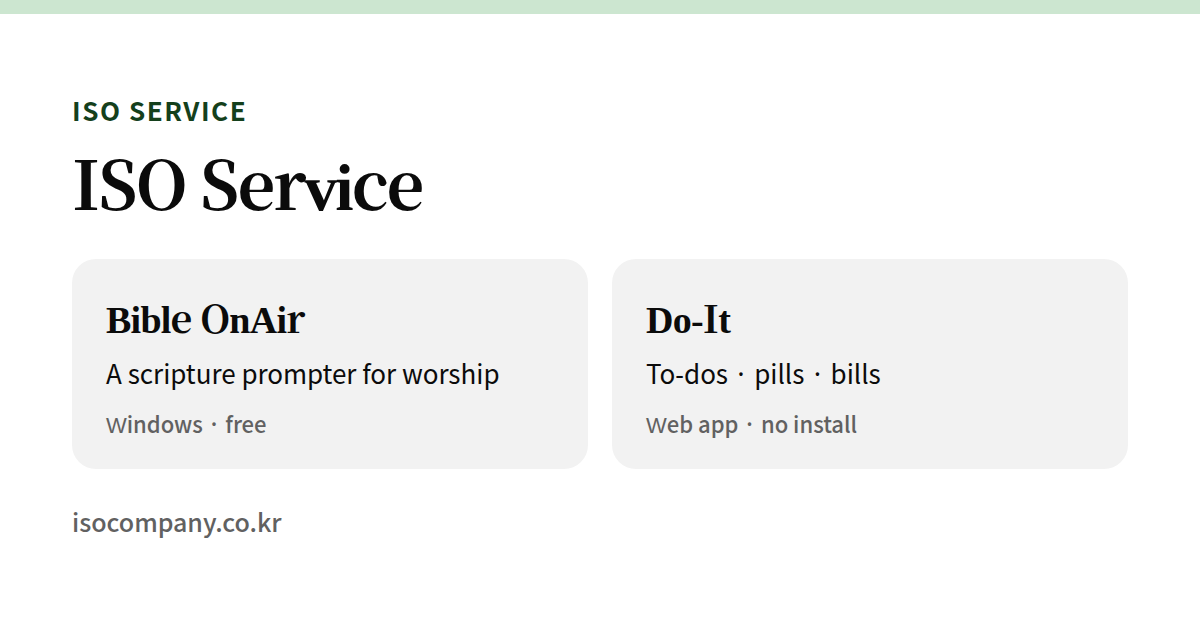
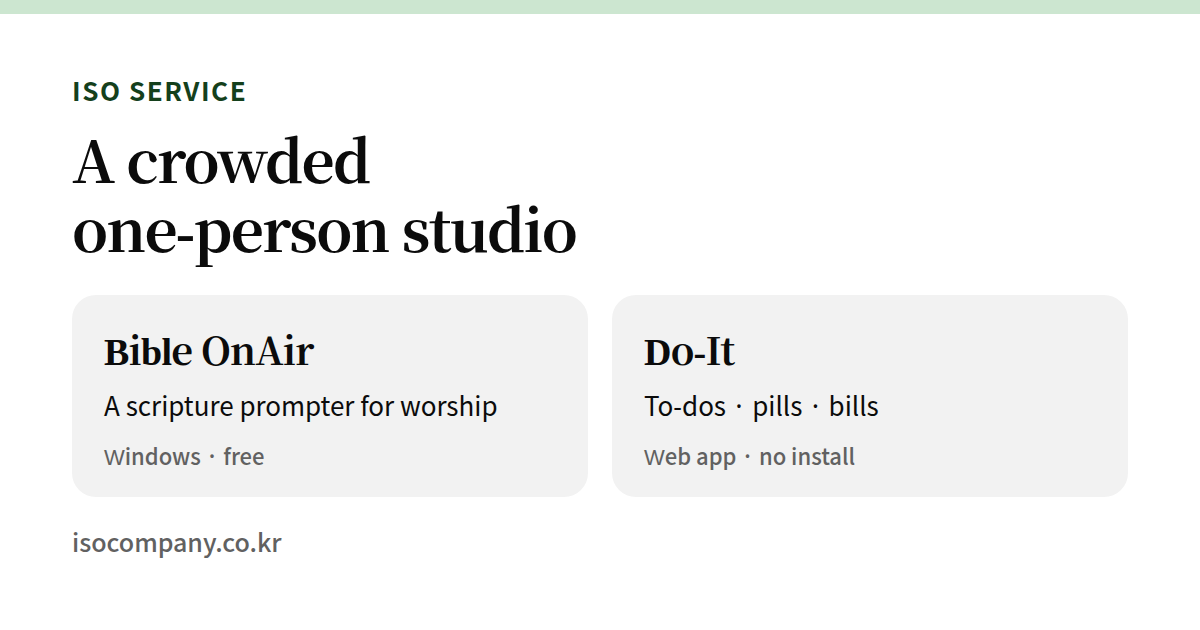
Docs: 첫 화면 문구와 공유 카드를 새 제목에 맞춤
홈 제목을 "북적이는 1인 스튜디오" 로 바꾼 것에 맞춰, 첫 화면의 큰 제목과
설명 줄, 그리고 링크 공유 카드의 큰 글씨를 같은 문구로 통일합니다.

설명 줄에서 '이소컴퍼니' 표기를 뺐습니다. 제목은 '이소서비스', 로고는
'ISO Service', 본문은 '이소컴퍼니' 로 세 갈래였습니다.

카드는 제목이 두 줄이 되면서 맨 아래 주소 줄이 밀려, 글자 크기와 여백을
다시 맞췄습니다.

Claude-Session: https://claude.ai/code/session_019EnYkUvV32QaETB4UPKn2y

diff --git a/docs/index.html b/docs/index.html
@@ -10,6 +10,6 @@
 		}
 	})();
 </script><style>.page-section[data-astro-cid-txyaz5mn]{margin:var(--section-margin) auto;scroll-margin-top:5.5rem}.page-section__body--narrow[data-astro-cid-txyaz5mn]{max-width:var(--container-max-width-narrow);margin-inline:auto}.page-section__body--surface[data-astro-cid-txyaz5mn]{background-color:var(--theme-surface-1);color:var(--theme-on-surface-1);border-radius:var(--theme-shape-radius);padding:clamp(2rem,4vw,3.5rem)}.page-section__title[data-astro-cid-txyaz5mn]{margin-bottom:.75rem}.page-section__lede[data-astro-cid-txyaz5mn]{max-width:60ch;margin-bottom:2rem}.page-section__title[data-astro-cid-txyaz5mn]+:not(.page-section__lede){margin-top:2rem}.badge[data-astro-cid-y2mfgyov]{font-size:var(--font-size-sm);white-space:nowrap;border-radius:3rem;align-items:center;padding:.15rem .7rem;font-weight:700;line-height:1.6;display:inline-flex}.badge--beta[data-astro-cid-y2mfgyov]{background-color:var(--theme-badge-soon-bg);color:var(--theme-badge-soon-on)}.badge--dev[data-astro-cid-y2mfgyov]{background-color:var(--theme-badge-dev-bg);color:var(--theme-badge-dev-on)}.badge--live[data-astro-cid-y2mfgyov]{background-color:var(--theme-badge-live-bg);color:var(--theme-badge-live-on)}
-</style><link rel="stylesheet" href="/_astro/Page.D-KGxC7z.css"><link rel="stylesheet" href="/_astro/HomeView.bL7oW88s.css"></head><body><a class="skip-link" href="#content" data-astro-cid-qydmhg6g>본문으로 건너뛰기</a><header id="siteHeader" data-astro-cid-x7j63lzb><script type="module">var e=document.documentElement;function t(){let t=e.getAttribute(`data-theme`);return t===`dark`||t===`light`?t:window.matchMedia(`(prefers-color-scheme: dark)`).matches?`dark`:`light`}function n(t){e.setAttribute(`data-theme`,t);try{localStorage.setItem(`iso-theme`,t)}catch{}document.querySelectorAll(`[data-theme-toggle]`).forEach(e=>e.setAttribute(`aria-pressed`,String(t===`dark`)))}document.querySelectorAll(`[data-theme-toggle]`).forEach(e=>{e.setAttribute(`aria-pressed`,String(t()===`dark`)),e.addEventListener(`click`,()=>{n(t()===`dark`?`light`:`dark`)})});</script><div class="content__container  header__container" data-astro-cid-adwuno2d="true"><div class="header__brand" data-astro-cid-x7j63lzb><button id="menuButton" type="button" aria-expanded="false" aria-controls="siteNav" aria-label="메뉴 열기" data-label-open="메뉴 열기" data-label-close="메뉴 닫기" data-astro-cid-x7j63lzb><svg class="menu-icon menu-icon--ham" viewBox="0 0 24 24" fill="none" stroke="currentColor" stroke-width="2" stroke-linecap="round" aria-hidden="true" focusable="false" data-astro-cid-x7j63lzb><path d="M4 7h16M4 12h16M4 17h16" data-astro-cid-x7j63lzb></path></svg><svg class="menu-icon menu-icon--close" viewBox="0 0 24 24" fill="none" stroke="currentColor" stroke-width="2" stroke-linecap="round" aria-hidden="true" focusable="false" hidden data-astro-cid-x7j63lzb><path d="M6 6l12 12M18 6L6 18" data-astro-cid-x7j63lzb></path></svg></button><a class="header__logo-link" href="/" data-astro-cid-x7j63lzb><span class="logo" data-astro-cid-f7espo7c><svg class="logo__mark" viewBox="0 0 32 32" fill="none" aria-hidden="true" focusable="false" data-astro-cid-f7espo7c><rect x="1.25" y="1.25" width="29.5" height="29.5" rx="9" stroke="currentColor" stroke-width="2.5" data-astro-cid-f7espo7c></rect><circle cx="16" cy="16" r="6.25" fill="currentColor" data-astro-cid-f7espo7c></circle></svg><span class="logo__text" data-astro-cid-f7espo7c>ISO Service</span></span></a></div><div class="header__nav" id="siteNav" data-astro-cid-x7j63lzb><nav aria-label="nav.services" data-astro-cid-x7j63lzb><ul data-astro-cid-x7j63lzb><li data-astro-cid-x7j63lzb><a href="/" aria-current="page" data-astro-cid-x7j63lzb>홈</a></li><li data-astro-cid-x7j63lzb><a href="/bible-onair" data-astro-cid-x7j63lzb>Bible OnAir</a></li><li data-astro-cid-x7j63lzb><a href="/do-it" data-astro-cid-x7j63lzb>Do-It</a></li></ul></nav><div class="header__nav-actions" data-astro-cid-x7j63lzb><nav class="lang-toggle" aria-label="언어 전환" data-astro-cid-zh35qibh><a class="lang-toggle__link is-active" href="/" hreflang="ko" lang="ko" aria-current="true" data-astro-cid-zh35qibh>KO</a><a class="lang-toggle__link" href="/en" hreflang="en" lang="en" data-astro-cid-zh35qibh>EN</a></nav><a href="#contact" data-astro-cid-x7j63lzb="true" data-astro-cid-nc3ue4xl="true" class="btn btn--outlined header__contact-btn">문의</a></div></div><div class="header__actions" data-astro-cid-x7j63lzb><div class="header__actions-desktop" data-astro-cid-x7j63lzb><nav class="lang-toggle" aria-label="언어 전환" data-astro-cid-zh35qibh><a class="lang-toggle__link is-active" href="/" hreflang="ko" lang="ko" aria-current="true" data-astro-cid-zh35qibh>KO</a><a class="lang-toggle__link" href="/en" hreflang="en" lang="en" data-astro-cid-zh35qibh>EN</a></nav><a href="#contact" data-astro-cid-x7j63lzb="true" data-astro-cid-nc3ue4xl="true" class="btn btn--outlined">문의</a></div><button type="button" class="theme-toggle" data-theme-toggle title="밝은 화면과 어두운 화면 전환" aria-label="밝은 화면과 어두운 화면 전환" data-astro-cid-uhcdaaf3><svg class="theme-toggle__icon theme-toggle__icon--sun" viewBox="0 0 24 24" fill="none" stroke="currentColor" stroke-width="2" stroke-linecap="round" aria-hidden="true" focusable="false" data-astro-cid-uhcdaaf3><circle cx="12" cy="12" r="4.25" data-astro-cid-uhcdaaf3></circle><path d="M12 2.5v2M12 19.5v2M2.5 12h2M19.5 12h2M5.2 5.2l1.4 1.4M17.4 17.4l1.4 1.4M18.8 5.2l-1.4 1.4M6.6 17.4l-1.4 1.4" data-astro-cid-uhcdaaf3></path></svg><svg class="theme-toggle__icon theme-toggle__icon--moon" viewBox="0 0 24 24" fill="none" stroke="currentColor" stroke-width="2" stroke-linecap="round" stroke-linejoin="round" aria-hidden="true" focusable="false" data-astro-cid-uhcdaaf3><path d="M20 14.2A8.2 8.2 0 0 1 9.8 4a8.5 8.5 0 1 0 10.2 10.2z" data-astro-cid-uhcdaaf3></path></svg></button></div></div></header><script type="module">var e=document.getElementById(`siteHeader`),t=document.getElementById(`menuButton`),n=e?.querySelector(`.menu-icon--ham`),r=e?.querySelector(`.menu-icon--close`);function i(i){e.toggleAttribute(`mobile-menu-open`,i),n?.toggleAttribute(`hidden`,i),r?.toggleAttribute(`hidden`,!i),t.setAttribute(`aria-expanded`,String(i)),t.setAttribute(`aria-label`,(i?t.dataset.labelClose:t.dataset.labelOpen)??``),document.body.style.overflow=i?`hidden`:``}t?.addEventListener(`click`,()=>{i(!e.hasAttribute(`mobile-menu-open`))}),document.querySelectorAll(`#siteNav a`).forEach(e=>e.addEventListener(`click`,()=>i(!1)));</script><main id="content"><div class="content__container  " data-astro-cid-adwuno2d="true"><section class="hero" data-astro-cid-63llj4z6><h1 class="hero__title" data-astro-cid-63llj4z6>ISO Service</h1><p class="hero__lede" data-astro-cid-63llj4z6>이소컴퍼니의 서비스입니다.
+</style><link rel="stylesheet" href="/_astro/Page.D-KGxC7z.css"><link rel="stylesheet" href="/_astro/HomeView.bL7oW88s.css"></head><body><a class="skip-link" href="#content" data-astro-cid-qydmhg6g>본문으로 건너뛰기</a><header id="siteHeader" data-astro-cid-x7j63lzb><script type="module">var e=document.documentElement;function t(){let t=e.getAttribute(`data-theme`);return t===`dark`||t===`light`?t:window.matchMedia(`(prefers-color-scheme: dark)`).matches?`dark`:`light`}function n(t){e.setAttribute(`data-theme`,t);try{localStorage.setItem(`iso-theme`,t)}catch{}document.querySelectorAll(`[data-theme-toggle]`).forEach(e=>e.setAttribute(`aria-pressed`,String(t===`dark`)))}document.querySelectorAll(`[data-theme-toggle]`).forEach(e=>{e.setAttribute(`aria-pressed`,String(t()===`dark`)),e.addEventListener(`click`,()=>{n(t()===`dark`?`light`:`dark`)})});</script><div class="content__container  header__container" data-astro-cid-adwuno2d="true"><div class="header__brand" data-astro-cid-x7j63lzb><button id="menuButton" type="button" aria-expanded="false" aria-controls="siteNav" aria-label="메뉴 열기" data-label-open="메뉴 열기" data-label-close="메뉴 닫기" data-astro-cid-x7j63lzb><svg class="menu-icon menu-icon--ham" viewBox="0 0 24 24" fill="none" stroke="currentColor" stroke-width="2" stroke-linecap="round" aria-hidden="true" focusable="false" data-astro-cid-x7j63lzb><path d="M4 7h16M4 12h16M4 17h16" data-astro-cid-x7j63lzb></path></svg><svg class="menu-icon menu-icon--close" viewBox="0 0 24 24" fill="none" stroke="currentColor" stroke-width="2" stroke-linecap="round" aria-hidden="true" focusable="false" hidden data-astro-cid-x7j63lzb><path d="M6 6l12 12M18 6L6 18" data-astro-cid-x7j63lzb></path></svg></button><a class="header__logo-link" href="/" data-astro-cid-x7j63lzb><span class="logo" data-astro-cid-f7espo7c><svg class="logo__mark" viewBox="0 0 32 32" fill="none" aria-hidden="true" focusable="false" data-astro-cid-f7espo7c><rect x="1.25" y="1.25" width="29.5" height="29.5" rx="9" stroke="currentColor" stroke-width="2.5" data-astro-cid-f7espo7c></rect><circle cx="16" cy="16" r="6.25" fill="currentColor" data-astro-cid-f7espo7c></circle></svg><span class="logo__text" data-astro-cid-f7espo7c>ISO Service</span></span></a></div><div class="header__nav" id="siteNav" data-astro-cid-x7j63lzb><nav aria-label="nav.services" data-astro-cid-x7j63lzb><ul data-astro-cid-x7j63lzb><li data-astro-cid-x7j63lzb><a href="/" aria-current="page" data-astro-cid-x7j63lzb>홈</a></li><li data-astro-cid-x7j63lzb><a href="/bible-onair" data-astro-cid-x7j63lzb>Bible OnAir</a></li><li data-astro-cid-x7j63lzb><a href="/do-it" data-astro-cid-x7j63lzb>Do-It</a></li></ul></nav><div class="header__nav-actions" data-astro-cid-x7j63lzb><nav class="lang-toggle" aria-label="언어 전환" data-astro-cid-zh35qibh><a class="lang-toggle__link is-active" href="/" hreflang="ko" lang="ko" aria-current="true" data-astro-cid-zh35qibh>KO</a><a class="lang-toggle__link" href="/en" hreflang="en" lang="en" data-astro-cid-zh35qibh>EN</a></nav><a href="#contact" data-astro-cid-x7j63lzb="true" data-astro-cid-nc3ue4xl="true" class="btn btn--outlined header__contact-btn">문의</a></div></div><div class="header__actions" data-astro-cid-x7j63lzb><div class="header__actions-desktop" data-astro-cid-x7j63lzb><nav class="lang-toggle" aria-label="언어 전환" data-astro-cid-zh35qibh><a class="lang-toggle__link is-active" href="/" hreflang="ko" lang="ko" aria-current="true" data-astro-cid-zh35qibh>KO</a><a class="lang-toggle__link" href="/en" hreflang="en" lang="en" data-astro-cid-zh35qibh>EN</a></nav><a href="#contact" data-astro-cid-x7j63lzb="true" data-astro-cid-nc3ue4xl="true" class="btn btn--outlined">문의</a></div><button type="button" class="theme-toggle" data-theme-toggle title="밝은 화면과 어두운 화면 전환" aria-label="밝은 화면과 어두운 화면 전환" data-astro-cid-uhcdaaf3><svg class="theme-toggle__icon theme-toggle__icon--sun" viewBox="0 0 24 24" fill="none" stroke="currentColor" stroke-width="2" stroke-linecap="round" aria-hidden="true" focusable="false" data-astro-cid-uhcdaaf3><circle cx="12" cy="12" r="4.25" data-astro-cid-uhcdaaf3></circle><path d="M12 2.5v2M12 19.5v2M2.5 12h2M19.5 12h2M5.2 5.2l1.4 1.4M17.4 17.4l1.4 1.4M18.8 5.2l-1.4 1.4M6.6 17.4l-1.4 1.4" data-astro-cid-uhcdaaf3></path></svg><svg class="theme-toggle__icon theme-toggle__icon--moon" viewBox="0 0 24 24" fill="none" stroke="currentColor" stroke-width="2" stroke-linecap="round" stroke-linejoin="round" aria-hidden="true" focusable="false" data-astro-cid-uhcdaaf3><path d="M20 14.2A8.2 8.2 0 0 1 9.8 4a8.5 8.5 0 1 0 10.2 10.2z" data-astro-cid-uhcdaaf3></path></svg></button></div></div></header><script type="module">var e=document.getElementById(`siteHeader`),t=document.getElementById(`menuButton`),n=e?.querySelector(`.menu-icon--ham`),r=e?.querySelector(`.menu-icon--close`);function i(i){e.toggleAttribute(`mobile-menu-open`,i),n?.toggleAttribute(`hidden`,i),r?.toggleAttribute(`hidden`,!i),t.setAttribute(`aria-expanded`,String(i)),t.setAttribute(`aria-label`,(i?t.dataset.labelClose:t.dataset.labelOpen)??``),document.body.style.overflow=i?`hidden`:``}t?.addEventListener(`click`,()=>{i(!e.hasAttribute(`mobile-menu-open`))}),document.querySelectorAll(`#siteNav a`).forEach(e=>e.addEventListener(`click`,()=>i(!1)));</script><main id="content"><div class="content__container  " data-astro-cid-adwuno2d="true"><section class="hero" data-astro-cid-63llj4z6><h1 class="hero__title" data-astro-cid-63llj4z6>북적이는 1인 스튜디오</h1><p class="hero__lede" data-astro-cid-63llj4z6>혼자 만드는 프로그램을 모아둔 곳입니다.
 아래에서 확인해보세요.</p></section></div><div class="content__container  " data-astro-cid-adwuno2d="true"><section class="services" id="services" aria-label="ISO Service" data-astro-cid-myynegie><div class="services__grid" data-astro-cid-myynegie><article class="service-card" data-astro-cid-epw4e57a><div class="service-card__head" data-astro-cid-epw4e57a><span class="badge badge--live" data-astro-cid-y2mfgyov>정식 버전</span><span class="service-card__version" data-astro-cid-epw4e57a>v1.1.1</span></div><h3 class="service-card__title" data-astro-cid-epw4e57a><a href="/bible-onair" data-astro-cid-epw4e57a>Bible OnAir<span class="service-card__arrow" aria-hidden="true" data-astro-cid-epw4e57a><svg viewBox="0 0 24 24" fill="none" stroke="currentColor" stroke-width="2" stroke-linecap="round" stroke-linejoin="round" focusable="false" data-astro-cid-epw4e57a><path d="M6 18 18 6M9 6h9v9" data-astro-cid-epw4e57a></path></svg></span></a></h3><p class="service-card__subname" data-astro-cid-epw4e57a>바이블온에어</p><p class="service-card__tagline" data-astro-cid-epw4e57a>찾는 순간 바로 화면으로, 예배의 몰입을 돕는 가장 빠른 성경 프롬프터</p><p class="service-card__summary" data-astro-cid-epw4e57a>제어 화면과 송출 화면의 이원화로, 성경 구절을 실시간으로 안전하고 빠르게 제공할 수 있습니다.</p><div class="service-card__actions" data-astro-cid-epw4e57a><a href="/bible-onair" data-astro-cid-epw4e57a="true" data-astro-cid-nc3ue4xl="true" class="btn btn--outlined">자세히 보기</a><a href="https://github.com/dode777/Bible-OnAir-Releases/releases/download/v1.1.1/Bible-OnAir-Setup-1.1.1.exe" target="_blank" rel="noopener noreferrer" data-astro-cid-nc3ue4xl="true" class="btn">다운로드<svg viewBox="0 0 24 24" fill="none" stroke="currentColor" stroke-width="2" stroke-linecap="round" stroke-linejoin="round" aria-hidden="true" focusable="false"><path d="M12 3.5v11"></path><path d="M7.5 10.5 12 15l4.5-4.5"></path><path d="M4.5 18.5h15"></path></svg></a></div></article><article class="service-card" data-astro-cid-epw4e57a><div class="service-card__head" data-astro-cid-epw4e57a><span class="badge badge--live" data-astro-cid-y2mfgyov>정식 버전</span><span class="service-card__version" data-astro-cid-epw4e57a>v0.1.5</span></div><h3 class="service-card__title" data-astro-cid-epw4e57a><a href="/do-it" data-astro-cid-epw4e57a>Do-It<span class="service-card__arrow" aria-hidden="true" data-astro-cid-epw4e57a><svg viewBox="0 0 24 24" fill="none" stroke="currentColor" stroke-width="2" stroke-linecap="round" stroke-linejoin="round" focusable="false" data-astro-cid-epw4e57a><path d="M6 18 18 6M9 6h9v9" data-astro-cid-epw4e57a></path></svg></span></a></h3><p class="service-card__subname" data-astro-cid-epw4e57a>두잇</p><p class="service-card__tagline" data-astro-cid-epw4e57a>꾹 누르면 끝. 약, 루틴, 고정비를 한 장씩 넘기며 챙기는 앱</p><p class="service-card__summary" data-astro-cid-epw4e57a>설치 없이 휴대폰 브라우저에서 열고, 홈 화면에 추가하면 앱처럼 쓸 수 있습니다.</p><div class="service-card__actions" data-astro-cid-epw4e57a><a href="/do-it" data-astro-cid-epw4e57a="true" data-astro-cid-nc3ue4xl="true" class="btn btn--outlined">자세히 보기</a><a href="https://doit.isocompany.co.kr/" target="_blank" rel="noopener noreferrer" data-astro-cid-nc3ue4xl="true" class="btn">열기<svg viewBox="0 0 24 24" fill="none" stroke="currentColor" stroke-width="2" stroke-linecap="round" stroke-linejoin="round" aria-hidden="true" focusable="false"><rect x="6.5" y="2.5" width="11" height="19" rx="2.5"></rect><path d="M11 18.5h2"></path></svg></a></div></article></div></section></div><section class="page-section" id="contact" data-astro-cid-txyaz5mn><div class="content__container  " data-astro-cid-adwuno2d="true"><div class="page-section__body page-section__body--surface" data-astro-cid-txyaz5mn><h2 class="page-section__title" data-astro-cid-txyaz5mn>문의</h2><div class="contact" data-astro-cid-iitoow3x><p class="contact__lede" data-astro-cid-iitoow3x>사용 중 발생한 문제나 기능 제안을 남겨주세요.
 적어주신 메일 주소로 빠른 시일 내 답변드리겠습니다.</p><form class="contact__form" action="https://formsubmit.co/hello@isocompany.co.kr" method="POST" data-astro-cid-iitoow3x><input type="hidden" name="_subject" value="[ISO Service] 웹사이트 문의" data-astro-cid-iitoow3x><input type="hidden" name="_template" value="table" data-astro-cid-iitoow3x><input type="hidden" name="_captcha" value="false" data-astro-cid-iitoow3x><input type="hidden" name="_next" value="https://isocompany.co.kr/contact/thanks" data-astro-cid-iitoow3x><input type="text" name="_honey" class="visually-hidden" tabindex="-1" autocomplete="off" aria-hidden="true" data-astro-cid-iitoow3x><div class="contact__row" data-astro-cid-iitoow3x><div class="contact__field" data-astro-cid-iitoow3x><label for="contactName" data-astro-cid-iitoow3x>이름<span class="contact__required" data-astro-cid-iitoow3x>필수</span></label><input id="contactName" name="이름" type="text" required autocomplete="name" placeholder="홍길동" data-astro-cid-iitoow3x></div><div class="contact__field" data-astro-cid-iitoow3x><label for="contactEmail" data-astro-cid-iitoow3x>이메일<span class="contact__required" data-astro-cid-iitoow3x>필수</span></label><input id="contactEmail" name="email" type="email" required autocomplete="email" placeholder="name@example.com" data-astro-cid-iitoow3x></div></div><div class="contact__field" data-astro-cid-iitoow3x><label for="contactTopic" data-astro-cid-iitoow3x>문의 유형</label><select id="contactTopic" name="문의 유형" data-astro-cid-iitoow3x><option value="사용 방법" data-astro-cid-iitoow3x>사용 방법</option><option value="오류 신고" data-astro-cid-iitoow3x>오류 신고</option><option value="기능 제안" data-astro-cid-iitoow3x>기능 제안</option><option value="기타" data-astro-cid-iitoow3x>기타</option></select></div><div class="contact__field" data-astro-cid-iitoow3x><label for="contactMessage" data-astro-cid-iitoow3x>문의 내용<span class="contact__required" data-astro-cid-iitoow3x>필수</span></label><textarea id="contactMessage" name="문의 내용" rows="7" required placeholder="문제가 발생한 상황과 증상을 함께 적어주시면 확인이 빠릅니다." data-astro-cid-iitoow3x></textarea></div><label class="contact__consent" data-astro-cid-iitoow3x><input type="checkbox" required data-astro-cid-iitoow3x><span data-astro-cid-iitoow3x>답변을 위해 이름과 이메일을 수집하는 데 동의합니다.</span></label><button data-astro-cid-iitoow3x="true" data-astro-cid-nc3ue4xl="true" class="btn btn--large">보내기</button></form><div class="contact__fallback" data-astro-cid-iitoow3x><p class="contact__fallback-lead" data-astro-cid-iitoow3x>아래 주소로 메일을 보내셔도 됩니다.</p><p class="contact__email" data-astro-cid-iitoow3x><a href="mailto:hello@isocompany.co.kr" data-astro-cid-iitoow3x>hello@isocompany.co.kr</a></p><a href="mailto:hello@isocompany.co.kr" data-astro-cid-iitoow3x="true" data-astro-cid-nc3ue4xl="true" class="btn btn--outlined">메일 앱으로 보내기</a></div></div></div></div></section></main><footer data-astro-cid-vnidhd3p><div class="content__container  " data-astro-cid-adwuno2d="true"><div class="footer__grid" data-astro-cid-vnidhd3p><div class="footer__brand" data-astro-cid-vnidhd3p><span class="logo" data-astro-cid-f7espo7c><svg class="logo__mark" viewBox="0 0 32 32" fill="none" aria-hidden="true" focusable="false" data-astro-cid-f7espo7c><rect x="1.25" y="1.25" width="29.5" height="29.5" rx="9" stroke="currentColor" stroke-width="2.5" data-astro-cid-f7espo7c></rect><circle cx="16" cy="16" r="6.25" fill="currentColor" data-astro-cid-f7espo7c></circle></svg><span class="logo__text" data-astro-cid-f7espo7c>ISO Service</span></span><p class="footer__tagline" data-astro-cid-vnidhd3p>Bible OnAir — 예배용 성경 구절 프롬프터, Do-It — 할 일·복약·고정비 체크 앱. 무료로 쓸 수 있습니다.</p></div><div data-astro-cid-vnidhd3p><p class="footer__heading" data-astro-cid-vnidhd3p>프로그램</p><ul class="footer__list" data-astro-cid-vnidhd3p><li data-astro-cid-vnidhd3p><a href="/bible-onair" data-astro-cid-vnidhd3p>Bible OnAir</a></li><li data-astro-cid-vnidhd3p><a href="/do-it" data-astro-cid-vnidhd3p>Do-It</a></li></ul></div><div data-astro-cid-vnidhd3p><p class="footer__heading" data-astro-cid-vnidhd3p>링크</p><ul class="footer__list" data-astro-cid-vnidhd3p><li data-astro-cid-vnidhd3p><a href="/" data-astro-cid-vnidhd3p>홈</a></li><li data-astro-cid-vnidhd3p><a href="https://github.com/dode777" target="_blank" rel="noopener noreferrer" data-astro-cid-vnidhd3p>GitHub</a></li></ul></div><div data-astro-cid-vnidhd3p><p class="footer__heading" data-astro-cid-vnidhd3p>문의</p><ul class="footer__list" data-astro-cid-vnidhd3p><li data-astro-cid-vnidhd3p><a href="mailto:hello@isocompany.co.kr" data-astro-cid-vnidhd3p>hello@isocompany.co.kr</a></li></ul></div></div><div class="footer__bottom" data-astro-cid-vnidhd3p><p data-astro-cid-vnidhd3p>&copy; 2026 ISO Service</p><p class="footer__credit" data-astro-cid-vnidhd3p><a href="https://github.com/treefarmstudio/odyssey-theme" target="_blank" rel="noopener noreferrer" data-astro-cid-vnidhd3p>Odyssey Theme 기반 · Astro로 제작</a></p></div></div></footer></body></html>

diff --git a/docs/en/index.html b/docs/en/index.html
@@ -10,6 +10,6 @@
 		}
 	})();
 </script><style>.page-section[data-astro-cid-txyaz5mn]{margin:var(--section-margin) auto;scroll-margin-top:5.5rem}.page-section__body--narrow[data-astro-cid-txyaz5mn]{max-width:var(--container-max-width-narrow);margin-inline:auto}.page-section__body--surface[data-astro-cid-txyaz5mn]{background-color:var(--theme-surface-1);color:var(--theme-on-surface-1);border-radius:var(--theme-shape-radius);padding:clamp(2rem,4vw,3.5rem)}.page-section__title[data-astro-cid-txyaz5mn]{margin-bottom:.75rem}.page-section__lede[data-astro-cid-txyaz5mn]{max-width:60ch;margin-bottom:2rem}.page-section__title[data-astro-cid-txyaz5mn]+:not(.page-section__lede){margin-top:2rem}.badge[data-astro-cid-y2mfgyov]{font-size:var(--font-size-sm);white-space:nowrap;border-radius:3rem;align-items:center;padding:.15rem .7rem;font-weight:700;line-height:1.6;display:inline-flex}.badge--beta[data-astro-cid-y2mfgyov]{background-color:var(--theme-badge-soon-bg);color:var(--theme-badge-soon-on)}.badge--dev[data-astro-cid-y2mfgyov]{background-color:var(--theme-badge-dev-bg);color:var(--theme-badge-dev-on)}.badge--live[data-astro-cid-y2mfgyov]{background-color:var(--theme-badge-live-bg);color:var(--theme-badge-live-on)}
-</style><link rel="stylesheet" href="/_astro/Page.D-KGxC7z.css"><link rel="stylesheet" href="/_astro/HomeView.bL7oW88s.css"></head><body><a class="skip-link" href="#content" data-astro-cid-qydmhg6g>Skip to content</a><header id="siteHeader" data-astro-cid-x7j63lzb><script type="module">var e=document.documentElement;function t(){let t=e.getAttribute(`data-theme`);return t===`dark`||t===`light`?t:window.matchMedia(`(prefers-color-scheme: dark)`).matches?`dark`:`light`}function n(t){e.setAttribute(`data-theme`,t);try{localStorage.setItem(`iso-theme`,t)}catch{}document.querySelectorAll(`[data-theme-toggle]`).forEach(e=>e.setAttribute(`aria-pressed`,String(t===`dark`)))}document.querySelectorAll(`[data-theme-toggle]`).forEach(e=>{e.setAttribute(`aria-pressed`,String(t()===`dark`)),e.addEventListener(`click`,()=>{n(t()===`dark`?`light`:`dark`)})});</script><div class="content__container  header__container" data-astro-cid-adwuno2d="true"><div class="header__brand" data-astro-cid-x7j63lzb><button id="menuButton" type="button" aria-expanded="false" aria-controls="siteNav" aria-label="Open main menu" data-label-open="Open main menu" data-label-close="Close main menu" data-astro-cid-x7j63lzb><svg class="menu-icon menu-icon--ham" viewBox="0 0 24 24" fill="none" stroke="currentColor" stroke-width="2" stroke-linecap="round" aria-hidden="true" focusable="false" data-astro-cid-x7j63lzb><path d="M4 7h16M4 12h16M4 17h16" data-astro-cid-x7j63lzb></path></svg><svg class="menu-icon menu-icon--close" viewBox="0 0 24 24" fill="none" stroke="currentColor" stroke-width="2" stroke-linecap="round" aria-hidden="true" focusable="false" hidden data-astro-cid-x7j63lzb><path d="M6 6l12 12M18 6L6 18" data-astro-cid-x7j63lzb></path></svg></button><a class="header__logo-link" href="/en" data-astro-cid-x7j63lzb><span class="logo" data-astro-cid-f7espo7c><svg class="logo__mark" viewBox="0 0 32 32" fill="none" aria-hidden="true" focusable="false" data-astro-cid-f7espo7c><rect x="1.25" y="1.25" width="29.5" height="29.5" rx="9" stroke="currentColor" stroke-width="2.5" data-astro-cid-f7espo7c></rect><circle cx="16" cy="16" r="6.25" fill="currentColor" data-astro-cid-f7espo7c></circle></svg><span class="logo__text" data-astro-cid-f7espo7c>ISO Service</span></span></a></div><div class="header__nav" id="siteNav" data-astro-cid-x7j63lzb><nav aria-label="nav.services" data-astro-cid-x7j63lzb><ul data-astro-cid-x7j63lzb><li data-astro-cid-x7j63lzb><a href="/en" aria-current="page" data-astro-cid-x7j63lzb>Home</a></li><li data-astro-cid-x7j63lzb><a href="/en/bible-onair" data-astro-cid-x7j63lzb>Bible OnAir</a></li><li data-astro-cid-x7j63lzb><a href="/en/do-it" data-astro-cid-x7j63lzb>Do-It</a></li></ul></nav><div class="header__nav-actions" data-astro-cid-x7j63lzb><nav class="lang-toggle" aria-label="Switch language" data-astro-cid-zh35qibh><a class="lang-toggle__link" href="/" hreflang="ko" lang="ko" data-astro-cid-zh35qibh>KO</a><a class="lang-toggle__link is-active" href="/en" hreflang="en" lang="en" aria-current="true" data-astro-cid-zh35qibh>EN</a></nav><a href="#contact" data-astro-cid-x7j63lzb="true" data-astro-cid-nc3ue4xl="true" class="btn btn--outlined header__contact-btn">Contact</a></div></div><div class="header__actions" data-astro-cid-x7j63lzb><div class="header__actions-desktop" data-astro-cid-x7j63lzb><nav class="lang-toggle" aria-label="Switch language" data-astro-cid-zh35qibh><a class="lang-toggle__link" href="/" hreflang="ko" lang="ko" data-astro-cid-zh35qibh>KO</a><a class="lang-toggle__link is-active" href="/en" hreflang="en" lang="en" aria-current="true" data-astro-cid-zh35qibh>EN</a></nav><a href="#contact" data-astro-cid-x7j63lzb="true" data-astro-cid-nc3ue4xl="true" class="btn btn--outlined">Contact</a></div><button type="button" class="theme-toggle" data-theme-toggle title="Toggle light and dark appearance" aria-label="Toggle light and dark appearance" data-astro-cid-uhcdaaf3><svg class="theme-toggle__icon theme-toggle__icon--sun" viewBox="0 0 24 24" fill="none" stroke="currentColor" stroke-width="2" stroke-linecap="round" aria-hidden="true" focusable="false" data-astro-cid-uhcdaaf3><circle cx="12" cy="12" r="4.25" data-astro-cid-uhcdaaf3></circle><path d="M12 2.5v2M12 19.5v2M2.5 12h2M19.5 12h2M5.2 5.2l1.4 1.4M17.4 17.4l1.4 1.4M18.8 5.2l-1.4 1.4M6.6 17.4l-1.4 1.4" data-astro-cid-uhcdaaf3></path></svg><svg class="theme-toggle__icon theme-toggle__icon--moon" viewBox="0 0 24 24" fill="none" stroke="currentColor" stroke-width="2" stroke-linecap="round" stroke-linejoin="round" aria-hidden="true" focusable="false" data-astro-cid-uhcdaaf3><path d="M20 14.2A8.2 8.2 0 0 1 9.8 4a8.5 8.5 0 1 0 10.2 10.2z" data-astro-cid-uhcdaaf3></path></svg></button></div></div></header><script type="module">var e=document.getElementById(`siteHeader`),t=document.getElementById(`menuButton`),n=e?.querySelector(`.menu-icon--ham`),r=e?.querySelector(`.menu-icon--close`);function i(i){e.toggleAttribute(`mobile-menu-open`,i),n?.toggleAttribute(`hidden`,i),r?.toggleAttribute(`hidden`,!i),t.setAttribute(`aria-expanded`,String(i)),t.setAttribute(`aria-label`,(i?t.dataset.labelClose:t.dataset.labelOpen)??``),document.body.style.overflow=i?`hidden`:``}t?.addEventListener(`click`,()=>{i(!e.hasAttribute(`mobile-menu-open`))}),document.querySelectorAll(`#siteNav a`).forEach(e=>e.addEventListener(`click`,()=>i(!1)));</script><main id="content"><div class="content__container  " data-astro-cid-adwuno2d="true"><section class="hero" data-astro-cid-63llj4z6><h1 class="hero__title" data-astro-cid-63llj4z6>ISO Service</h1><p class="hero__lede" data-astro-cid-63llj4z6>Services by ISO Company.
+</style><link rel="stylesheet" href="/_astro/Page.D-KGxC7z.css"><link rel="stylesheet" href="/_astro/HomeView.bL7oW88s.css"></head><body><a class="skip-link" href="#content" data-astro-cid-qydmhg6g>Skip to content</a><header id="siteHeader" data-astro-cid-x7j63lzb><script type="module">var e=document.documentElement;function t(){let t=e.getAttribute(`data-theme`);return t===`dark`||t===`light`?t:window.matchMedia(`(prefers-color-scheme: dark)`).matches?`dark`:`light`}function n(t){e.setAttribute(`data-theme`,t);try{localStorage.setItem(`iso-theme`,t)}catch{}document.querySelectorAll(`[data-theme-toggle]`).forEach(e=>e.setAttribute(`aria-pressed`,String(t===`dark`)))}document.querySelectorAll(`[data-theme-toggle]`).forEach(e=>{e.setAttribute(`aria-pressed`,String(t()===`dark`)),e.addEventListener(`click`,()=>{n(t()===`dark`?`light`:`dark`)})});</script><div class="content__container  header__container" data-astro-cid-adwuno2d="true"><div class="header__brand" data-astro-cid-x7j63lzb><button id="menuButton" type="button" aria-expanded="false" aria-controls="siteNav" aria-label="Open main menu" data-label-open="Open main menu" data-label-close="Close main menu" data-astro-cid-x7j63lzb><svg class="menu-icon menu-icon--ham" viewBox="0 0 24 24" fill="none" stroke="currentColor" stroke-width="2" stroke-linecap="round" aria-hidden="true" focusable="false" data-astro-cid-x7j63lzb><path d="M4 7h16M4 12h16M4 17h16" data-astro-cid-x7j63lzb></path></svg><svg class="menu-icon menu-icon--close" viewBox="0 0 24 24" fill="none" stroke="currentColor" stroke-width="2" stroke-linecap="round" aria-hidden="true" focusable="false" hidden data-astro-cid-x7j63lzb><path d="M6 6l12 12M18 6L6 18" data-astro-cid-x7j63lzb></path></svg></button><a class="header__logo-link" href="/en" data-astro-cid-x7j63lzb><span class="logo" data-astro-cid-f7espo7c><svg class="logo__mark" viewBox="0 0 32 32" fill="none" aria-hidden="true" focusable="false" data-astro-cid-f7espo7c><rect x="1.25" y="1.25" width="29.5" height="29.5" rx="9" stroke="currentColor" stroke-width="2.5" data-astro-cid-f7espo7c></rect><circle cx="16" cy="16" r="6.25" fill="currentColor" data-astro-cid-f7espo7c></circle></svg><span class="logo__text" data-astro-cid-f7espo7c>ISO Service</span></span></a></div><div class="header__nav" id="siteNav" data-astro-cid-x7j63lzb><nav aria-label="nav.services" data-astro-cid-x7j63lzb><ul data-astro-cid-x7j63lzb><li data-astro-cid-x7j63lzb><a href="/en" aria-current="page" data-astro-cid-x7j63lzb>Home</a></li><li data-astro-cid-x7j63lzb><a href="/en/bible-onair" data-astro-cid-x7j63lzb>Bible OnAir</a></li><li data-astro-cid-x7j63lzb><a href="/en/do-it" data-astro-cid-x7j63lzb>Do-It</a></li></ul></nav><div class="header__nav-actions" data-astro-cid-x7j63lzb><nav class="lang-toggle" aria-label="Switch language" data-astro-cid-zh35qibh><a class="lang-toggle__link" href="/" hreflang="ko" lang="ko" data-astro-cid-zh35qibh>KO</a><a class="lang-toggle__link is-active" href="/en" hreflang="en" lang="en" aria-current="true" data-astro-cid-zh35qibh>EN</a></nav><a href="#contact" data-astro-cid-x7j63lzb="true" data-astro-cid-nc3ue4xl="true" class="btn btn--outlined header__contact-btn">Contact</a></div></div><div class="header__actions" data-astro-cid-x7j63lzb><div class="header__actions-desktop" data-astro-cid-x7j63lzb><nav class="lang-toggle" aria-label="Switch language" data-astro-cid-zh35qibh><a class="lang-toggle__link" href="/" hreflang="ko" lang="ko" data-astro-cid-zh35qibh>KO</a><a class="lang-toggle__link is-active" href="/en" hreflang="en" lang="en" aria-current="true" data-astro-cid-zh35qibh>EN</a></nav><a href="#contact" data-astro-cid-x7j63lzb="true" data-astro-cid-nc3ue4xl="true" class="btn btn--outlined">Contact</a></div><button type="button" class="theme-toggle" data-theme-toggle title="Toggle light and dark appearance" aria-label="Toggle light and dark appearance" data-astro-cid-uhcdaaf3><svg class="theme-toggle__icon theme-toggle__icon--sun" viewBox="0 0 24 24" fill="none" stroke="currentColor" stroke-width="2" stroke-linecap="round" aria-hidden="true" focusable="false" data-astro-cid-uhcdaaf3><circle cx="12" cy="12" r="4.25" data-astro-cid-uhcdaaf3></circle><path d="M12 2.5v2M12 19.5v2M2.5 12h2M19.5 12h2M5.2 5.2l1.4 1.4M17.4 17.4l1.4 1.4M18.8 5.2l-1.4 1.4M6.6 17.4l-1.4 1.4" data-astro-cid-uhcdaaf3></path></svg><svg class="theme-toggle__icon theme-toggle__icon--moon" viewBox="0 0 24 24" fill="none" stroke="currentColor" stroke-width="2" stroke-linecap="round" stroke-linejoin="round" aria-hidden="true" focusable="false" data-astro-cid-uhcdaaf3><path d="M20 14.2A8.2 8.2 0 0 1 9.8 4a8.5 8.5 0 1 0 10.2 10.2z" data-astro-cid-uhcdaaf3></path></svg></button></div></div></header><script type="module">var e=document.getElementById(`siteHeader`),t=document.getElementById(`menuButton`),n=e?.querySelector(`.menu-icon--ham`),r=e?.querySelector(`.menu-icon--close`);function i(i){e.toggleAttribute(`mobile-menu-open`,i),n?.toggleAttribute(`hidden`,i),r?.toggleAttribute(`hidden`,!i),t.setAttribute(`aria-expanded`,String(i)),t.setAttribute(`aria-label`,(i?t.dataset.labelClose:t.dataset.labelOpen)??``),document.body.style.overflow=i?`hidden`:``}t?.addEventListener(`click`,()=>{i(!e.hasAttribute(`mobile-menu-open`))}),document.querySelectorAll(`#siteNav a`).forEach(e=>e.addEventListener(`click`,()=>i(!1)));</script><main id="content"><div class="content__container  " data-astro-cid-adwuno2d="true"><section class="hero" data-astro-cid-63llj4z6><h1 class="hero__title" data-astro-cid-63llj4z6>A crowded one-person studio</h1><p class="hero__lede" data-astro-cid-63llj4z6>Everything here is made by one person.
 Take a look below.</p></section></div><div class="content__container  " data-astro-cid-adwuno2d="true"><section class="services" id="services" aria-label="ISO Service" data-astro-cid-myynegie><div class="services__grid" data-astro-cid-myynegie><article class="service-card" data-astro-cid-epw4e57a><div class="service-card__head" data-astro-cid-epw4e57a><span class="badge badge--live" data-astro-cid-y2mfgyov>Stable release</span><span class="service-card__version" data-astro-cid-epw4e57a>v1.1.1</span></div><h3 class="service-card__title" data-astro-cid-epw4e57a><a href="/en/bible-onair" data-astro-cid-epw4e57a>Bible OnAir<span class="service-card__arrow" aria-hidden="true" data-astro-cid-epw4e57a><svg viewBox="0 0 24 24" fill="none" stroke="currentColor" stroke-width="2" stroke-linecap="round" stroke-linejoin="round" focusable="false" data-astro-cid-epw4e57a><path d="M6 18 18 6M9 6h9v9" data-astro-cid-epw4e57a></path></svg></span></a></h3><p class="service-card__tagline" data-astro-cid-epw4e57a>Found and on screen in an instant — the fastest scripture prompter for worship</p><p class="service-card__summary" data-astro-cid-epw4e57a>A separate control window and output screen put verses up quickly and safely, live.</p><div class="service-card__actions" data-astro-cid-epw4e57a><a href="/en/bible-onair" data-astro-cid-epw4e57a="true" data-astro-cid-nc3ue4xl="true" class="btn btn--outlined">Read more</a><a href="https://github.com/dode777/Bible-OnAir-Releases/releases/download/v1.1.1/Bible-OnAir-Setup-1.1.1.exe" target="_blank" rel="noopener noreferrer" data-astro-cid-nc3ue4xl="true" class="btn">Download<svg viewBox="0 0 24 24" fill="none" stroke="currentColor" stroke-width="2" stroke-linecap="round" stroke-linejoin="round" aria-hidden="true" focusable="false"><path d="M12 3.5v11"></path><path d="M7.5 10.5 12 15l4.5-4.5"></path><path d="M4.5 18.5h15"></path></svg></a></div></article><article class="service-card" data-astro-cid-epw4e57a><div class="service-card__head" data-astro-cid-epw4e57a><span class="badge badge--live" data-astro-cid-y2mfgyov>Stable release</span><span class="service-card__version" data-astro-cid-epw4e57a>v0.1.5</span></div><h3 class="service-card__title" data-astro-cid-epw4e57a><a href="/en/do-it" data-astro-cid-epw4e57a>Do-It<span class="service-card__arrow" aria-hidden="true" data-astro-cid-epw4e57a><svg viewBox="0 0 24 24" fill="none" stroke="currentColor" stroke-width="2" stroke-linecap="round" stroke-linejoin="round" focusable="false" data-astro-cid-epw4e57a><path d="M6 18 18 6M9 6h9v9" data-astro-cid-epw4e57a></path></svg></span></a></h3><p class="service-card__tagline" data-astro-cid-epw4e57a>Press and hold to finish. Swipe through pills, routines and bills one card at a time</p><p class="service-card__summary" data-astro-cid-epw4e57a>Open it in your phone browser — no install — and add it to the home screen to use it like an app.</p><div class="service-card__actions" data-astro-cid-epw4e57a><a href="/en/do-it" data-astro-cid-epw4e57a="true" data-astro-cid-nc3ue4xl="true" class="btn btn--outlined">Read more</a><a href="https://doit.isocompany.co.kr/" target="_blank" rel="noopener noreferrer" data-astro-cid-nc3ue4xl="true" class="btn">Open<svg viewBox="0 0 24 24" fill="none" stroke="currentColor" stroke-width="2" stroke-linecap="round" stroke-linejoin="round" aria-hidden="true" focusable="false"><rect x="6.5" y="2.5" width="11" height="19" rx="2.5"></rect><path d="M11 18.5h2"></path></svg></a></div></article></div></section></div><section class="page-section" id="contact" data-astro-cid-txyaz5mn><div class="content__container  " data-astro-cid-adwuno2d="true"><div class="page-section__body page-section__body--surface" data-astro-cid-txyaz5mn><h2 class="page-section__title" data-astro-cid-txyaz5mn>Contact</h2><div class="contact" data-astro-cid-iitoow3x><p class="contact__lede" data-astro-cid-iitoow3x>Report a problem or suggest a feature below.
 A reply will be sent to the address you provide as soon as possible.</p><form class="contact__form" action="https://formsubmit.co/hello@isocompany.co.kr" method="POST" data-astro-cid-iitoow3x><input type="hidden" name="_subject" value="[ISO Service] 웹사이트 문의" data-astro-cid-iitoow3x><input type="hidden" name="_template" value="table" data-astro-cid-iitoow3x><input type="hidden" name="_captcha" value="false" data-astro-cid-iitoow3x><input type="hidden" name="_next" value="https://isocompany.co.kr/en/contact/thanks" data-astro-cid-iitoow3x><input type="text" name="_honey" class="visually-hidden" tabindex="-1" autocomplete="off" aria-hidden="true" data-astro-cid-iitoow3x><div class="contact__row" data-astro-cid-iitoow3x><div class="contact__field" data-astro-cid-iitoow3x><label for="contactName" data-astro-cid-iitoow3x>Name<span class="contact__required" data-astro-cid-iitoow3x>Required</span></label><input id="contactName" name="이름" type="text" required autocomplete="name" placeholder="Your name" data-astro-cid-iitoow3x></div><div class="contact__field" data-astro-cid-iitoow3x><label for="contactEmail" data-astro-cid-iitoow3x>Email<span class="contact__required" data-astro-cid-iitoow3x>Required</span></label><input id="contactEmail" name="email" type="email" required autocomplete="email" placeholder="name@example.com" data-astro-cid-iitoow3x></div></div><div class="contact__field" data-astro-cid-iitoow3x><label for="contactTopic" data-astro-cid-iitoow3x>Topic</label><select id="contactTopic" name="문의 유형" data-astro-cid-iitoow3x><option value="How to use it" data-astro-cid-iitoow3x>How to use it</option><option value="Bug report" data-astro-cid-iitoow3x>Bug report</option><option value="Feature request" data-astro-cid-iitoow3x>Feature request</option><option value="Something else" data-astro-cid-iitoow3x>Something else</option></select></div><div class="contact__field" data-astro-cid-iitoow3x><label for="contactMessage" data-astro-cid-iitoow3x>Message<span class="contact__required" data-astro-cid-iitoow3x>Required</span></label><textarea id="contactMessage" name="문의 내용" rows="7" required placeholder="Describing the situation and the symptom helps it get looked at faster." data-astro-cid-iitoow3x></textarea></div><label class="contact__consent" data-astro-cid-iitoow3x><input type="checkbox" required data-astro-cid-iitoow3x><span data-astro-cid-iitoow3x>I agree to my name and email being collected so I can be replied to.</span></label><button data-astro-cid-iitoow3x="true" data-astro-cid-nc3ue4xl="true" class="btn btn--large">Send</button></form><div class="contact__fallback" data-astro-cid-iitoow3x><p class="contact__fallback-lead" data-astro-cid-iitoow3x>You may also write to the address below.</p><p class="contact__email" data-astro-cid-iitoow3x><a href="mailto:hello@isocompany.co.kr" data-astro-cid-iitoow3x>hello@isocompany.co.kr</a></p><a href="mailto:hello@isocompany.co.kr" data-astro-cid-iitoow3x="true" data-astro-cid-nc3ue4xl="true" class="btn btn--outlined">Open your mail app</a></div></div></div></div></section></main><footer data-astro-cid-vnidhd3p><div class="content__container  " data-astro-cid-adwuno2d="true"><div class="footer__grid" data-astro-cid-vnidhd3p><div class="footer__brand" data-astro-cid-vnidhd3p><span class="logo" data-astro-cid-f7espo7c><svg class="logo__mark" viewBox="0 0 32 32" fill="none" aria-hidden="true" focusable="false" data-astro-cid-f7espo7c><rect x="1.25" y="1.25" width="29.5" height="29.5" rx="9" stroke="currentColor" stroke-width="2.5" data-astro-cid-f7espo7c></rect><circle cx="16" cy="16" r="6.25" fill="currentColor" data-astro-cid-f7espo7c></circle></svg><span class="logo__text" data-astro-cid-f7espo7c>ISO Service</span></span><p class="footer__tagline" data-astro-cid-vnidhd3p>Bible OnAir — A scripture prompter for worship · Do-It — A checklist for tasks, pills and bills. Free to use.</p></div><div data-astro-cid-vnidhd3p><p class="footer__heading" data-astro-cid-vnidhd3p>Programs</p><ul class="footer__list" data-astro-cid-vnidhd3p><li data-astro-cid-vnidhd3p><a href="/en/bible-onair" data-astro-cid-vnidhd3p>Bible OnAir</a></li><li data-astro-cid-vnidhd3p><a href="/en/do-it" data-astro-cid-vnidhd3p>Do-It</a></li></ul></div><div data-astro-cid-vnidhd3p><p class="footer__heading" data-astro-cid-vnidhd3p>Links</p><ul class="footer__list" data-astro-cid-vnidhd3p><li data-astro-cid-vnidhd3p><a href="/en" data-astro-cid-vnidhd3p>Home</a></li><li data-astro-cid-vnidhd3p><a href="https://github.com/dode777" target="_blank" rel="noopener noreferrer" data-astro-cid-vnidhd3p>GitHub</a></li></ul></div><div data-astro-cid-vnidhd3p><p class="footer__heading" data-astro-cid-vnidhd3p>Contact</p><ul class="footer__list" data-astro-cid-vnidhd3p><li data-astro-cid-vnidhd3p><a href="mailto:hello@isocompany.co.kr" data-astro-cid-vnidhd3p>hello@isocompany.co.kr</a></li></ul></div></div><div class="footer__bottom" data-astro-cid-vnidhd3p><p data-astro-cid-vnidhd3p>&copy; 2026 ISO Service</p><p class="footer__credit" data-astro-cid-vnidhd3p><a href="https://github.com/treefarmstudio/odyssey-theme" target="_blank" rel="noopener noreferrer" data-astro-cid-vnidhd3p>Based on the Odyssey Theme · Built with Astro</a></p></div></div></footer></body></html>

diff --git a/scripts/og-home.html b/scripts/og-home.html
@@ -39,12 +39,12 @@
 			h1 {
 				margin: 16px 0 0;
 				font-family: 'Noto Serif KR', serif; font-weight: 700;
-				font-size: 66px; line-height: 1.15; letter-spacing: -0.03em;
+				font-size: 58px; line-height: 1.18; letter-spacing: -0.03em;
 			}
-			.cards { display: flex; gap: 24px; margin-top: 40px; }
+			.cards { display: flex; gap: 24px; margin-top: 34px; }
 			.card {
 				flex: 1 1 0; min-width: 0;
-				padding: 30px 34px; border-radius: 24px; background: #f2f2f2;
+				padding: 26px 32px; border-radius: 24px; background: #f2f2f2;
 			}
 			.card b {
 				display: block;
@@ -56,7 +56,7 @@
 				display: block; margin-top: 16px; font-size: 22px; font-style: normal;
 				font-weight: 500; color: #616161;
 			}
-			.foot { margin-top: 34px; font-size: 25px; font-weight: 500; color: #616161; }
+			.foot { margin-top: 26px; font-size: 25px; font-weight: 500; color: #616161; }
 			.en { display: none; }
 			html.is-en .ko { display: none; }
 			html.is-en .en { display: inline; }
@@ -65,7 +65,7 @@
 	<body>
 		<script>if (location.hash === '#en') document.documentElement.classList.add('is-en'), document.documentElement.lang = 'en';</script>
 		<p class="eyebrow">ISO SERVICE</p>
-		<h1><span class="ko">이소서비스</span><span class="en">ISO Service</span></h1>
+		<h1><span class="ko">북적이는<br />1인 스튜디오</span><span class="en">A crowded<br />one-person studio</span></h1>
 
 		<div class="cards">
 			<div class="card">

diff --git a/src/i18n/ui.js b/src/i18n/ui.js
@@ -28,9 +28,9 @@ export const ui = {
 		'nav.home': '홈',
 		'nav.contact': '문의',
 
-		'home.title': 'ISO Service',
+		'home.title': '북적이는 1인 스튜디오',
 		'home.lede':
-			'이소컴퍼니의 서비스입니다.\n아래에서 확인해보세요.',
+			'혼자 만드는 프로그램을 모아둔 곳입니다.\n아래에서 확인해보세요.',
 
 		'card.detail': '자세히 보기',
 		'card.download': '다운로드',
@@ -113,9 +113,9 @@ export const ui = {
 		'nav.home': 'Home',
 		'nav.contact': 'Contact',
 
-		'home.title': 'ISO Service',
+		'home.title': 'A crowded one-person studio',
 		'home.lede':
-			'Services by ISO Company.\nTake a look below.',
+			'Everything here is made by one person.\nTake a look below.',
 
 		'card.detail': 'Read more',
 		'card.download': 'Download',

diff --git a/README.md b/README.md
@@ -129,7 +129,8 @@ Bible OnAir 와 같은 방식으로 **자동으로** 읽습니다 — `services.
 잇는 방식만 바꾸고 싶으면 `ui.js` 의 `site.descriptionItem` · `descriptionJoin` · `descriptionTail`
 세 값을 고치면 됩니다.
 
-홈의 `<title>` 은 자동이 아닙니다. **서비스를 추가하면 `site.metaTitle` 도 함께 고쳐야 합니다.**
+홈의 `<title>` 과 첫 화면 문구(`home.title` · `home.lede`)는 서비스 이름을 담지 않습니다.
+만드는 곳이 어떤 성격인지만 밝히므로, 서비스가 늘어도 고칠 필요가 없습니다.
 
 `canonical` · `hreflang` · 사이트맵은 모두 끝에 슬래시가 붙은 주소를 씁니다
 (`BaseHead.astro` 의 `withSlash`). 한 글자라도 다르면 검색엔진이 다른 페이지로 봅니다.
